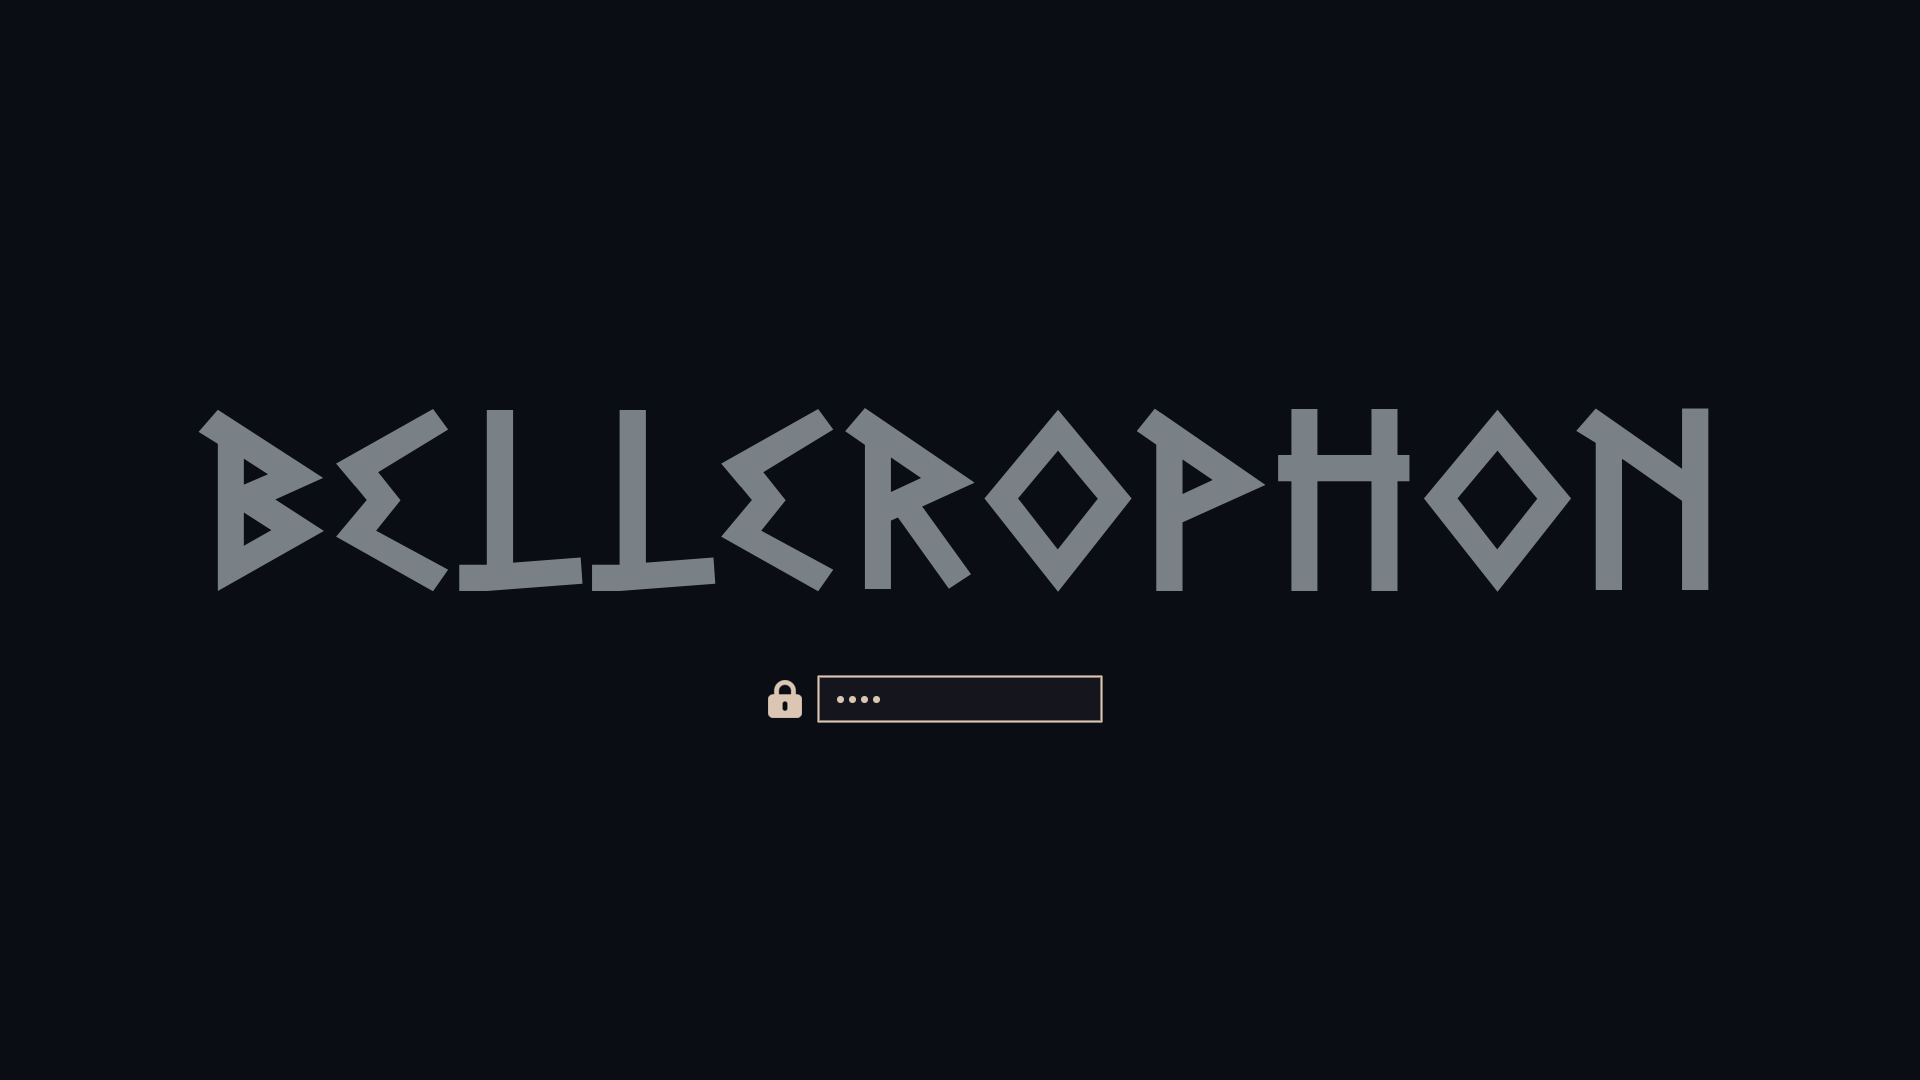
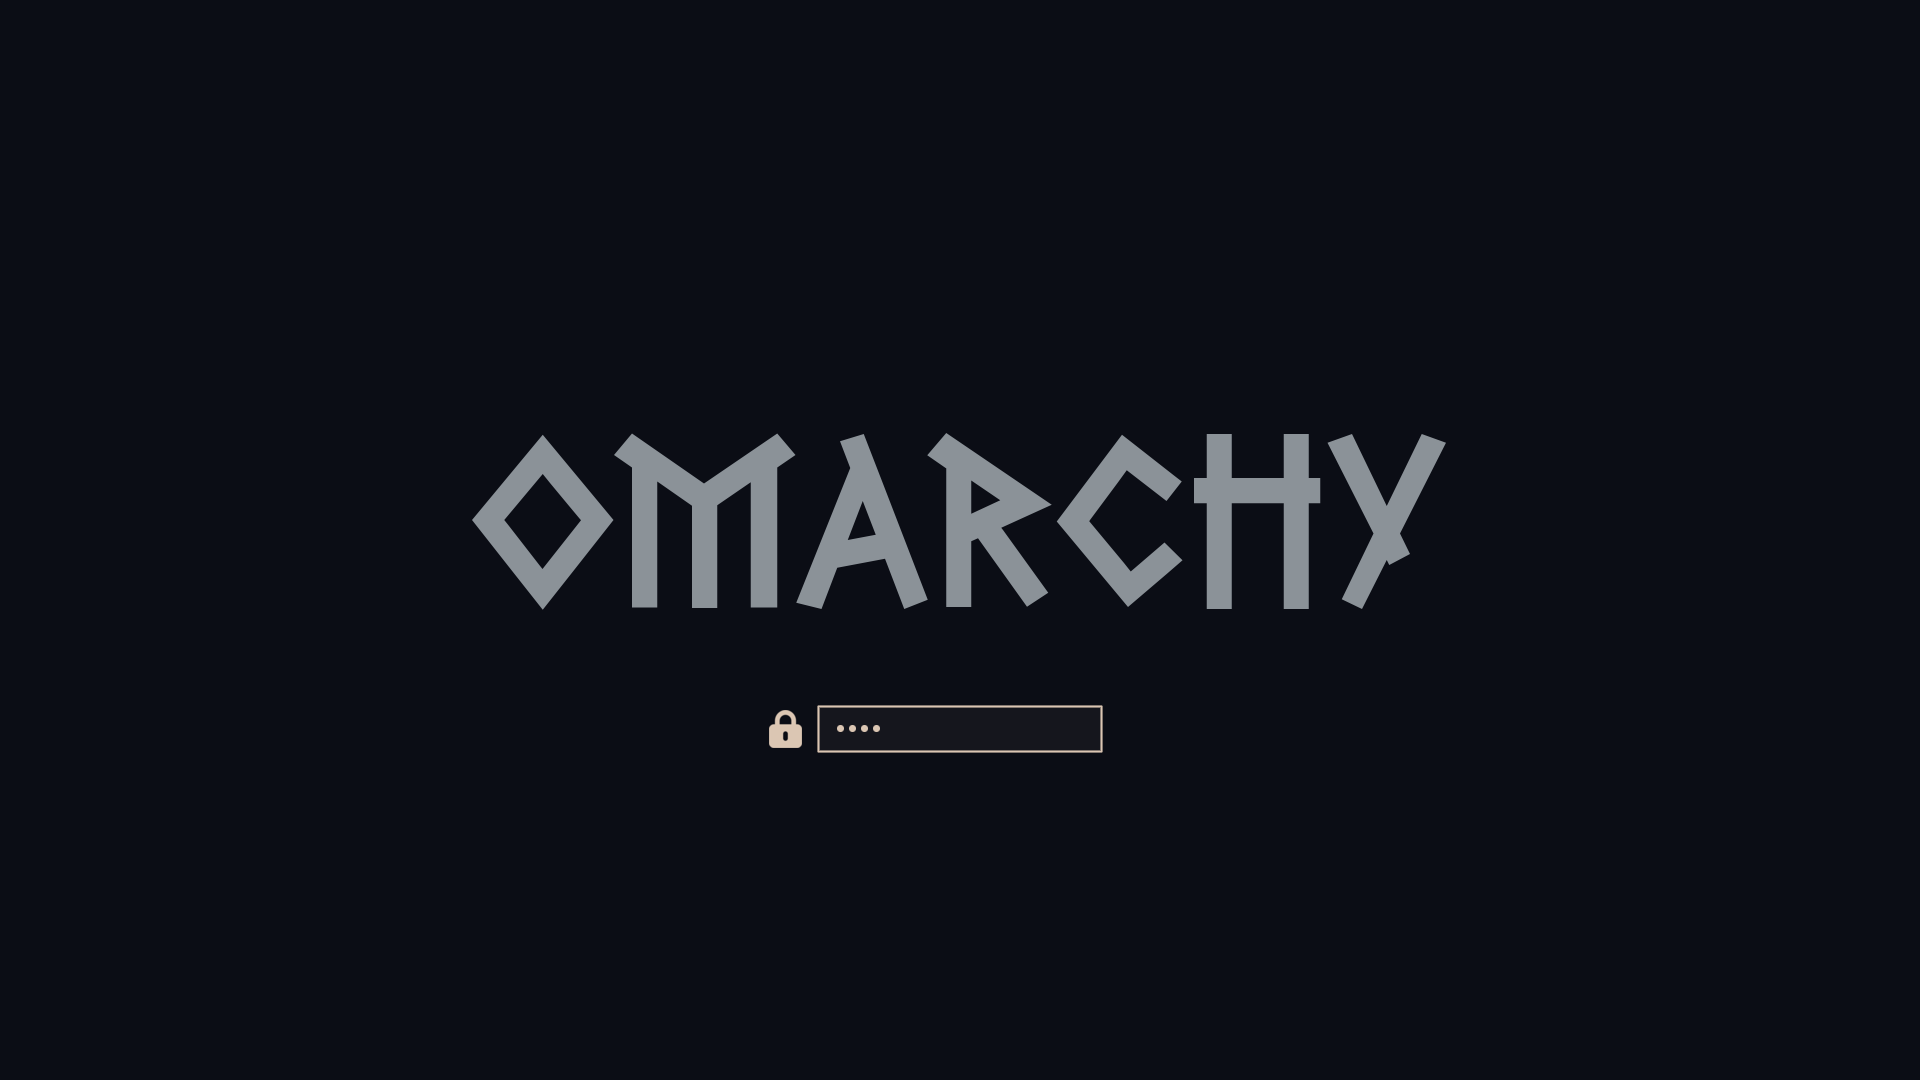
Update login branding to Omarchy

Changed region(s): [[0.0938, 0.3667, 0.9062, 0.5806], [0.375, 0.6111, 0.5625, 0.7028]]

diff --git a/README.md b/README.md
@@ -46,11 +46,12 @@ Omarchy safely generates application and terminal configuration from
 
 | Lock screen with clock | SDDM login preview |
 | --- | --- |
-| ![Bellerophon lock screen with clock and password field](screenshots/lock-screen.png) | ![Bellerophon SDDM login preview](screenshots/sddm-login.png) |
+| ![Bellerophon lock screen with clock and password field](screenshots/lock-screen.png) | ![Omarchy-branded SDDM login preview](screenshots/sddm-login.png) |
 
 The lock screen uses the optional
 [Lock Style](https://github.com/MrDemonc/Omarchy-lock-style) plugin. The SDDM
-image shows a matching local greeter. These companion surfaces are pictured for
+image shows a matching local greeter with an Omarchy wordmark rendered in the
+theme's Greek-inspired lettering. These companion surfaces are pictured for
 clarity; installing an Omarchy theme does not replace the system SDDM greeter.
 
 ## Wallpaper quality
